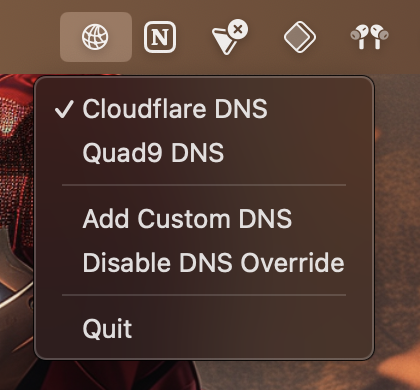
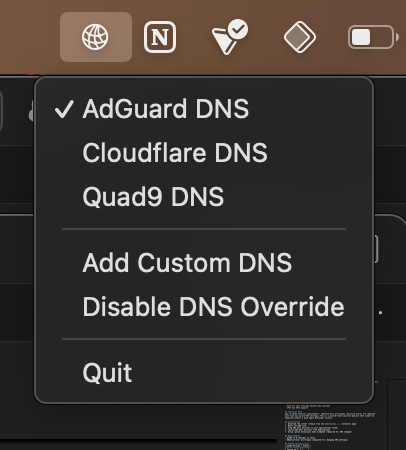
Update screenshot + readme

diff --git a/README.md b/README.md
@@ -49,7 +49,7 @@ Contributions are welcome! Please feel free to submit a Pull Request.
 ## Acknowledgments
 - [Cloudflare DNS](https://1.1.1.1) for their public DNS service
 - [Quad9](https://quad9.net) for their secure DNS service
-- [AdGuard](https://adguard-dns.io/en/welcome.html) for their public DNS service
+- [AdGuard DNS](https://adguard-dns.io/en/welcome.html) for their privacy-focused DNS service with ad blocking capabilities
 
 ## Privacy
 DNS Easy Switcher does not collect any data. All settings are stored locally on your device.
